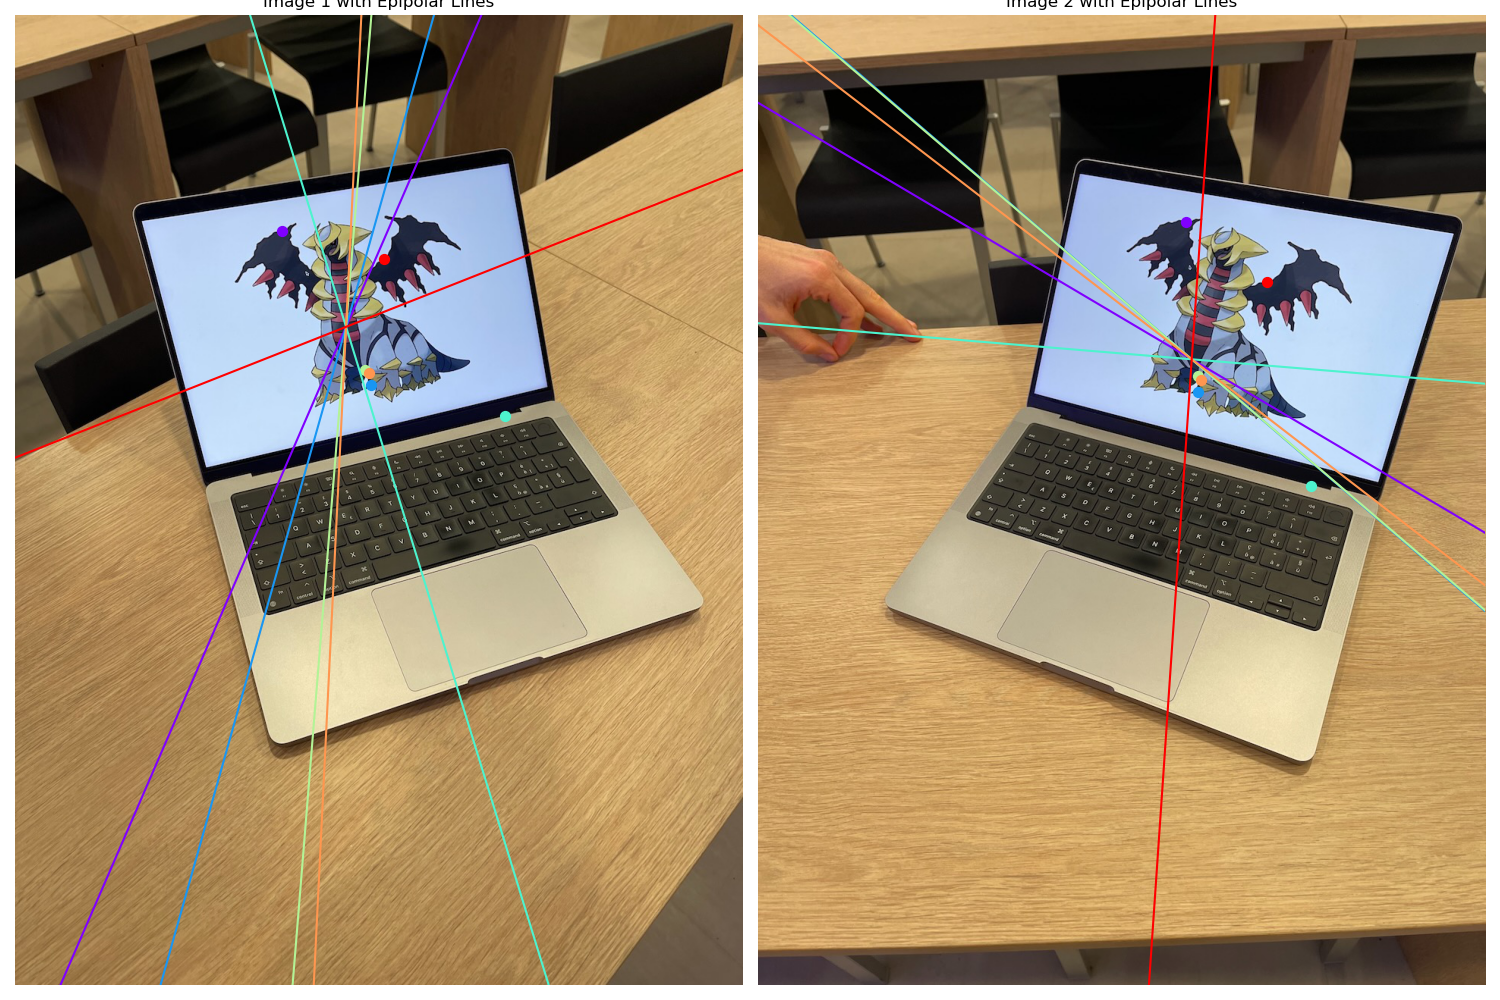
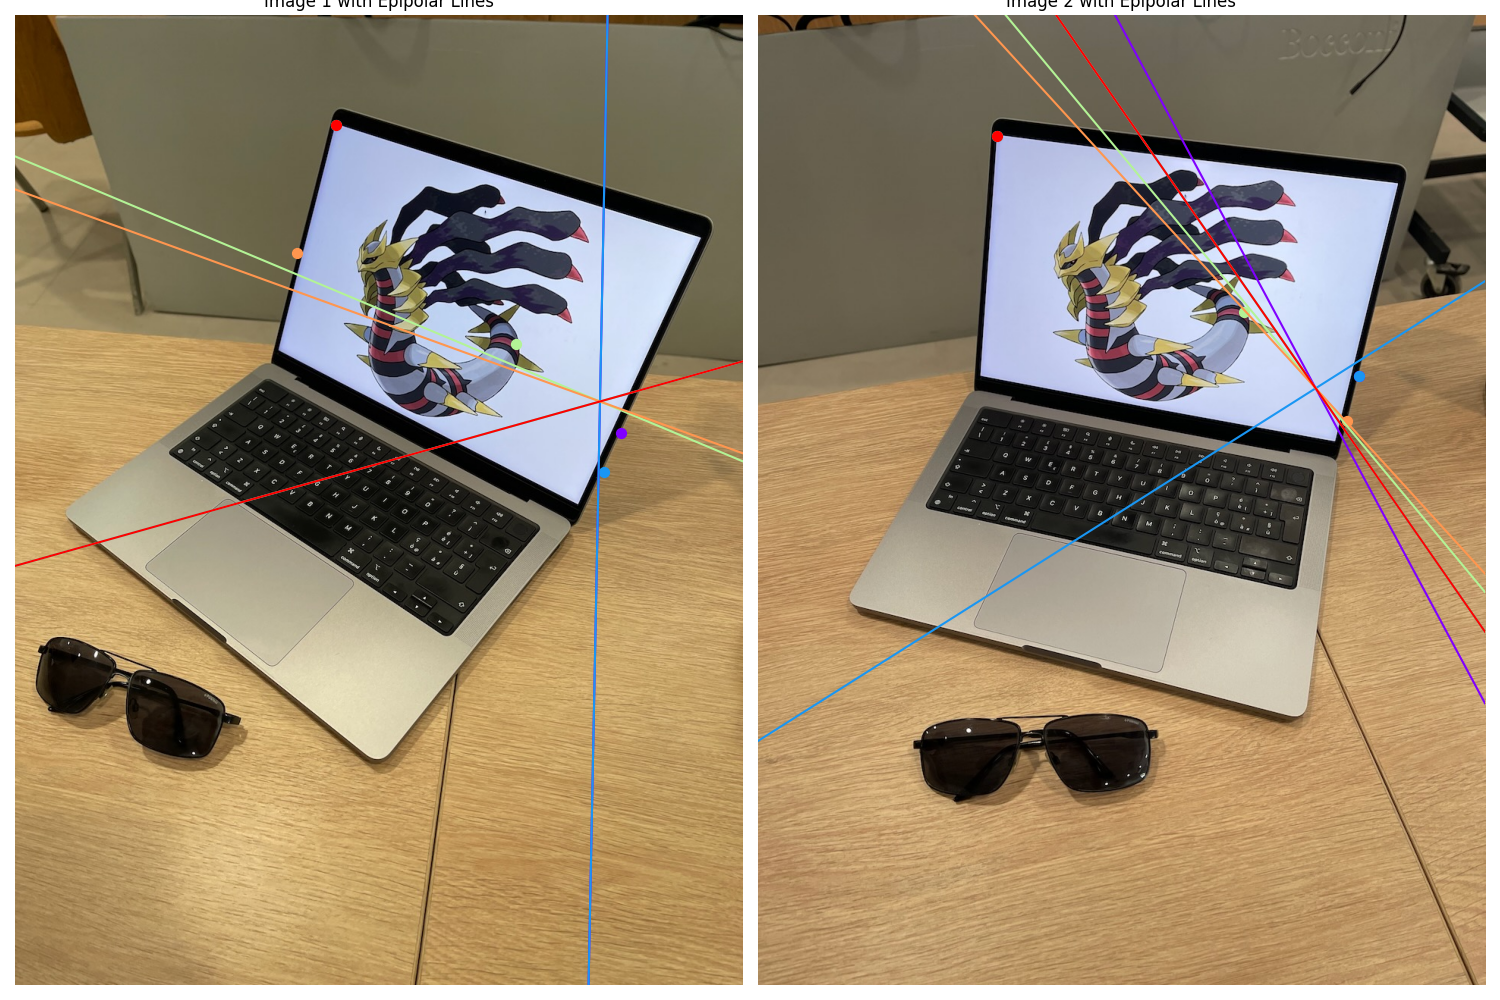
EPA giratina con gli occhiali

diff --git a/eight-point-algorithm/ale.py b/eight-point-algorithm/ale.py
@@ -284,7 +284,7 @@ def eight_point_algorithm(img1_path, img2_path, use_ransac = True, num_matches =
         return F, pts1, pts2, match_img, errors, fig
 
 # Example usage:
-F, pts1, pts2, match_img, errors, fig = eight_point_algorithm('img/giratina_2.jpeg', 'img/giratina_1.jpeg')
+F, pts1, pts2, match_img, errors, fig = eight_point_algorithm('img/giratina_occhiali_2.jpeg', 'img/giratina_occhiali_1.jpeg')
 plt.figure(figsize=(10, 5))
 plt.imshow(match_img)
 plt.title('SIFT Matches')

diff --git a/eight-point-algorithm/main.py b/eight-point-algorithm/main.py
@@ -1,5 +1,4 @@
 import math
-
 import cv2
 import matplotlib.pyplot as plt
 import numpy as np
@@ -8,11 +7,11 @@ from matplotlib import cm
 # Hyper Parameters
 EPIPOLAR_PATH = "./epipolar.png"
 MATCHES_PATH = "./matches.png"
-IMG = "giratina"
+IMG = "giratina_occhiali"
 
 NORMALIZE_POINTS = True
 USE_RANSAC = False
-USE_SIFT = True
+USE_SIFT = False
 CORRESPONDENCES_PATH = "./correspondences.txt"
 NUM_CORRESPONDENCES = 6
 
